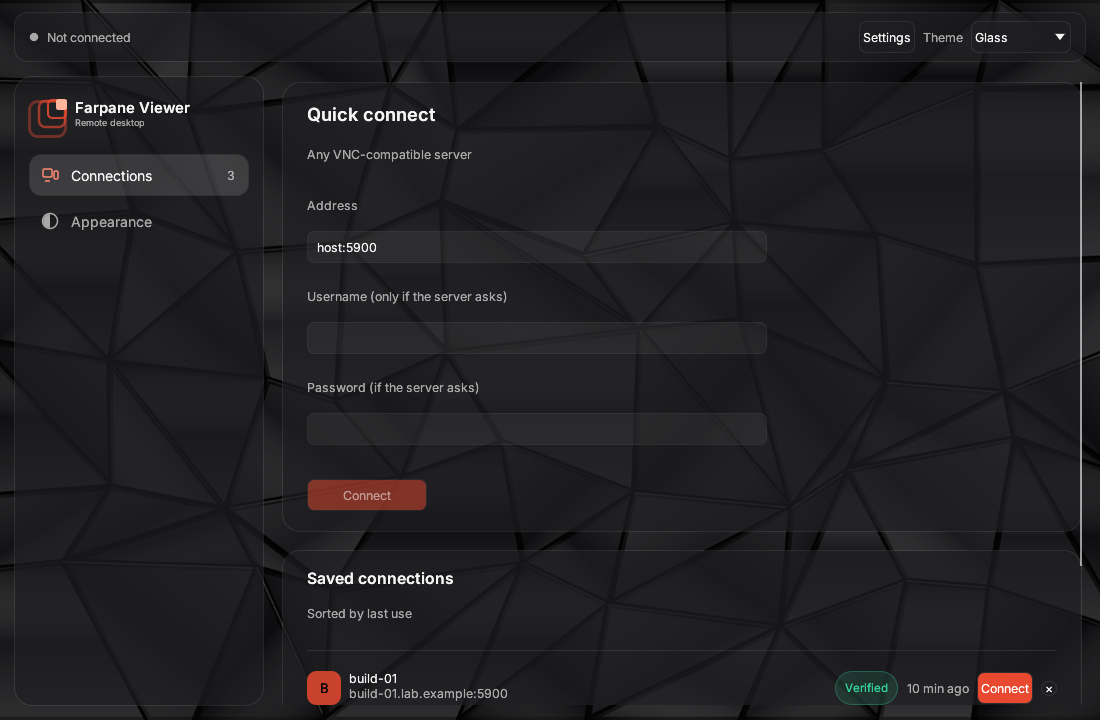
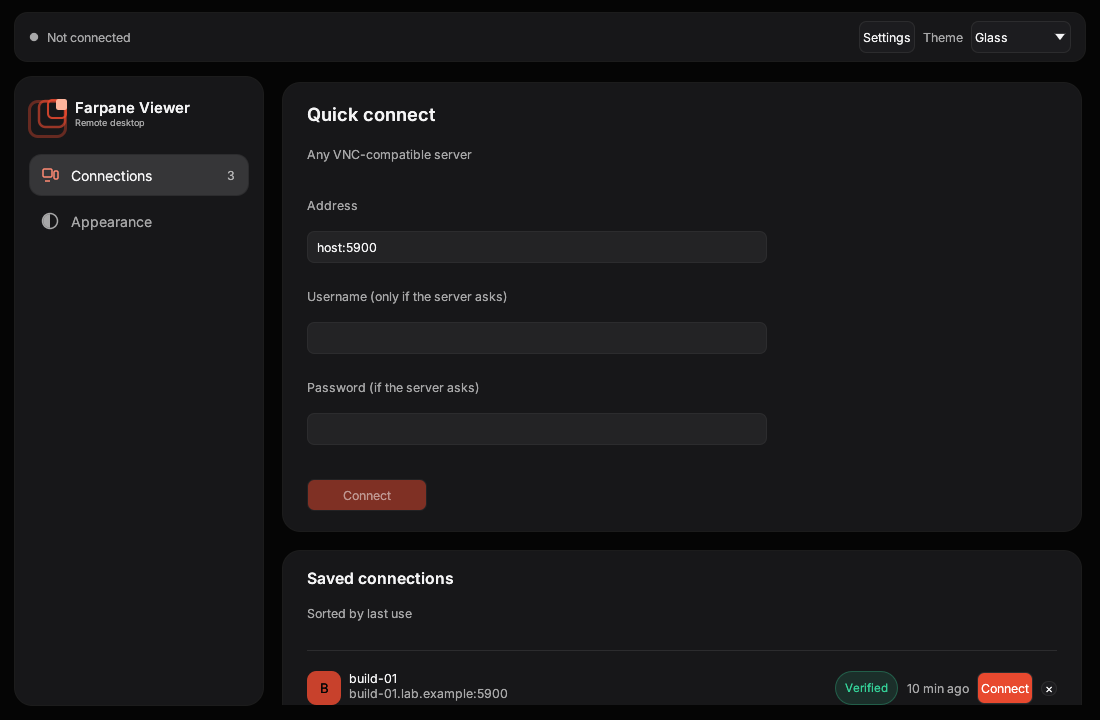
ui: drop the Glass backdrop picture; every theme paints its plain background
The Glass theme keeps its translucent cards and colours. The picture itself is only used by site/make_og.py now.

diff --git a/crates/farpane-ui/src/style.rs b/crates/farpane-ui/src/style.rs
@@ -89,7 +89,6 @@ const INTER: &[u8] = include_bytes!("../assets/fonts/Inter-Regular.ttf");
 const INTER_SEMIBOLD: &[u8] = include_bytes!("../assets/fonts/Inter-SemiBold.ttf");
 const PLEX: &[u8] = include_bytes!("../assets/fonts/IBMPlexSans-Regular.ttf");
 const PLEX_SEMIBOLD: &[u8] = include_bytes!("../assets/fonts/IBMPlexSans-SemiBold.ttf");
-const BACKDROP: &[u8] = include_bytes!("../assets/glass-backdrop.png");
 
 fn semibold_name() -> egui::FontFamily {
     egui::FontFamily::Name(SEMIBOLD.into())
@@ -160,67 +159,10 @@ pub fn apply(ctx: &egui::Context, tokens: &Tokens) {
     }
 }
 
-/// What panels should fill themselves with: nothing on the Glass theme, so
-/// the backdrop shows through, else the background colour.
+/// What panels should fill themselves with: the background colour.
 #[must_use]
 pub fn page_fill(tokens: &Tokens) -> Color32 {
-    if tokens.glass {
-        Color32::TRANSPARENT
-    } else {
-        tokens.bg.into()
-    }
-}
-
-/// Paint the Glass theme's backdrop over the whole window, below every
-/// panel. Call it first in the frame; other themes paint nothing.
-pub fn paint_backdrop(ctx: &egui::Context, tokens: &Tokens) {
-    if !tokens.glass {
-        return;
-    }
-    let id = egui::Id::new("farpane-backdrop");
-    let texture = ctx.data(|d| d.get_temp::<egui::TextureHandle>(id));
-    let texture = texture.or_else(|| {
-        let image = decode_backdrop()?;
-        let handle = ctx.load_texture("farpane-backdrop", image, egui::TextureOptions::LINEAR);
-        ctx.data_mut(|d| d.insert_temp(id, handle.clone()));
-        Some(handle)
-    });
-    let Some(texture) = texture else {
-        return;
-    };
-    let screen = ctx.screen_rect();
-    // Cover the window, keeping the picture's proportions (SVG "slice").
-    let size = texture.size_vec2();
-    let scale = (screen.width() / size.x).max(screen.height() / size.y);
-    let shown = egui::vec2(
-        screen.width() / scale / size.x,
-        screen.height() / scale / size.y,
-    );
-    let uv = egui::Rect::from_center_size(egui::pos2(0.5, 0.5), shown);
-    ctx.layer_painter(egui::LayerId::background())
-        .image(texture.id(), screen, uv, Color32::WHITE);
-}
-
-fn decode_backdrop() -> Option<egui::ColorImage> {
-    let mut reader = png::Decoder::new(std::io::Cursor::new(BACKDROP))
-        .read_info()
-        .ok()?;
-    let mut buf = vec![0; reader.output_buffer_size()?];
-    let info = reader.next_frame(&mut buf).ok()?;
-    let rgba: Vec<u8> = match info.color_type {
-        png::ColorType::Rgba => buf[..info.buffer_size()].to_vec(),
-        png::ColorType::Rgb => buf[..info.buffer_size()]
-            .as_chunks::<3>()
-            .0
-            .iter()
-            .flat_map(|p| [p[0], p[1], p[2], 255])
-            .collect(),
-        _ => return None,
-    };
-    Some(egui::ColorImage::from_rgba_unmultiplied(
-        [info.width as usize, info.height as usize],
-        &rgba,
-    ))
+    tokens.bg.into()
 }
 
 #[cfg(test)]

diff --git a/crates/farpane-ui/src/theme.rs b/crates/farpane-ui/src/theme.rs
@@ -81,7 +81,7 @@ pub struct Tokens {
     pub radius: f32,
     /// Dark surfaces (Glass, Slate) rather than light ones.
     pub dark: bool,
-    /// Frosted-glass panels (needs the blurred-backdrop pass).
+    /// Frosted-glass panels (translucent cards on the plain background).
     pub glass: bool,
     /// IBM Plex Sans instead of Inter (the Slate theme's typeface).
     pub plex: bool,

diff --git a/apps/farpane-server/src/dashboard.rs b/apps/farpane-server/src/dashboard.rs
@@ -705,7 +705,6 @@ impl Dashboard {
         self.refresh(ctx, now);
         let tokens = self.tokens(ctx);
         style::apply(ctx, &tokens);
-        style::paint_backdrop(ctx, &tokens);
 
         egui::SidePanel::left("nav")
             .exact_width(268.0)

diff --git a/apps/farpane-viewer/src/app.rs b/apps/farpane-viewer/src/app.rs
@@ -604,7 +604,6 @@ impl ViewerApp {
             style::apply(ctx, &tokens);
             self.applied = Some(tokens);
         }
-        style::paint_backdrop(ctx, &tokens);
         tokens
     }
 
